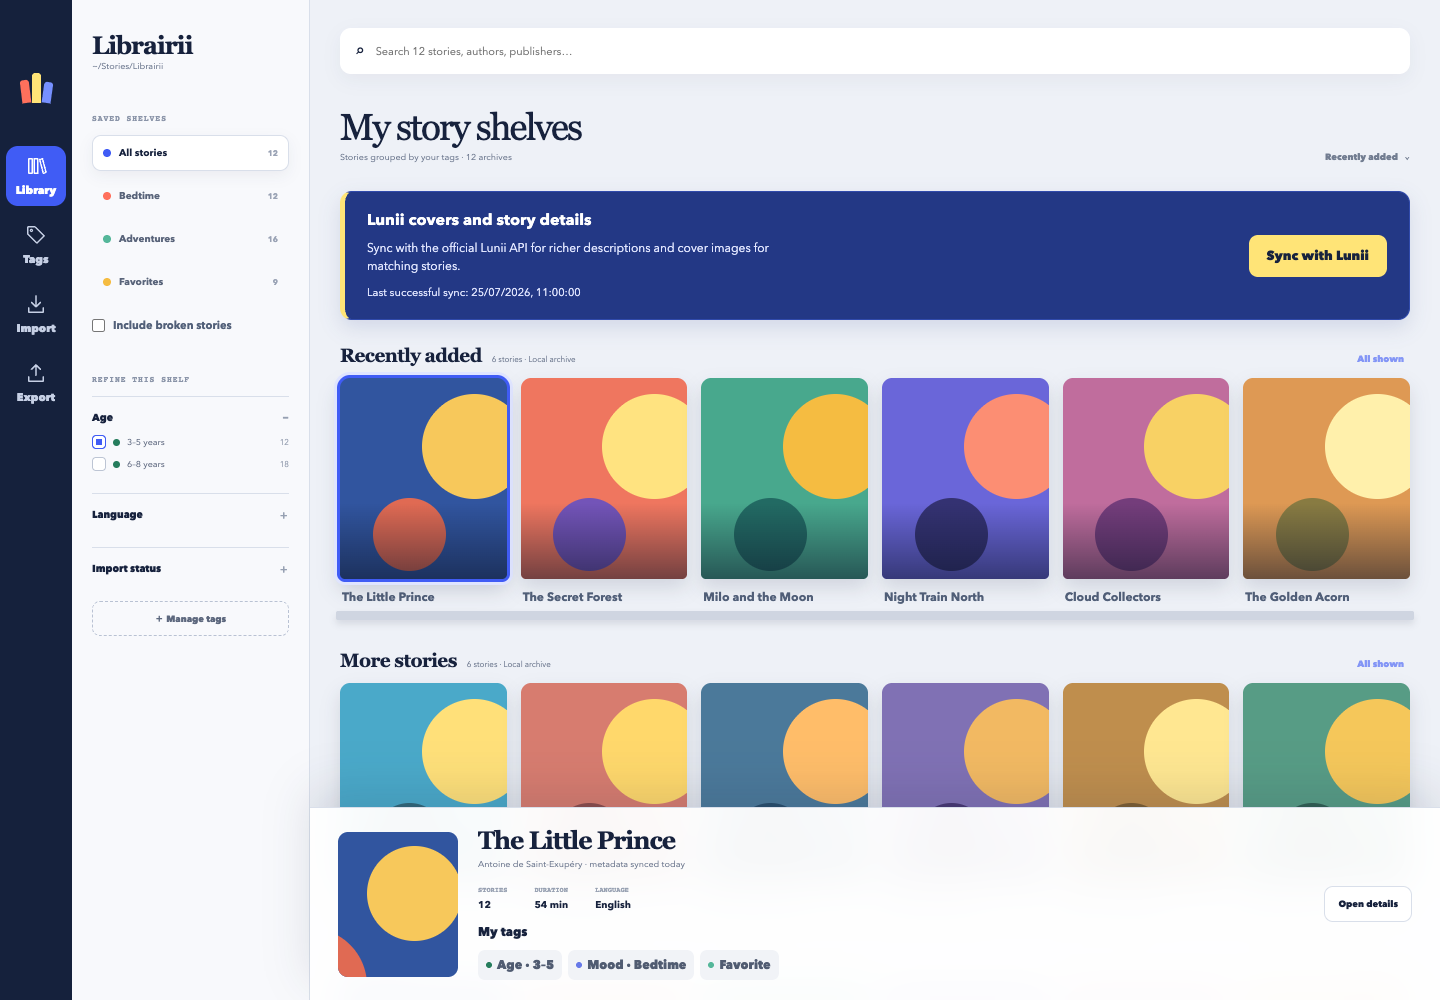
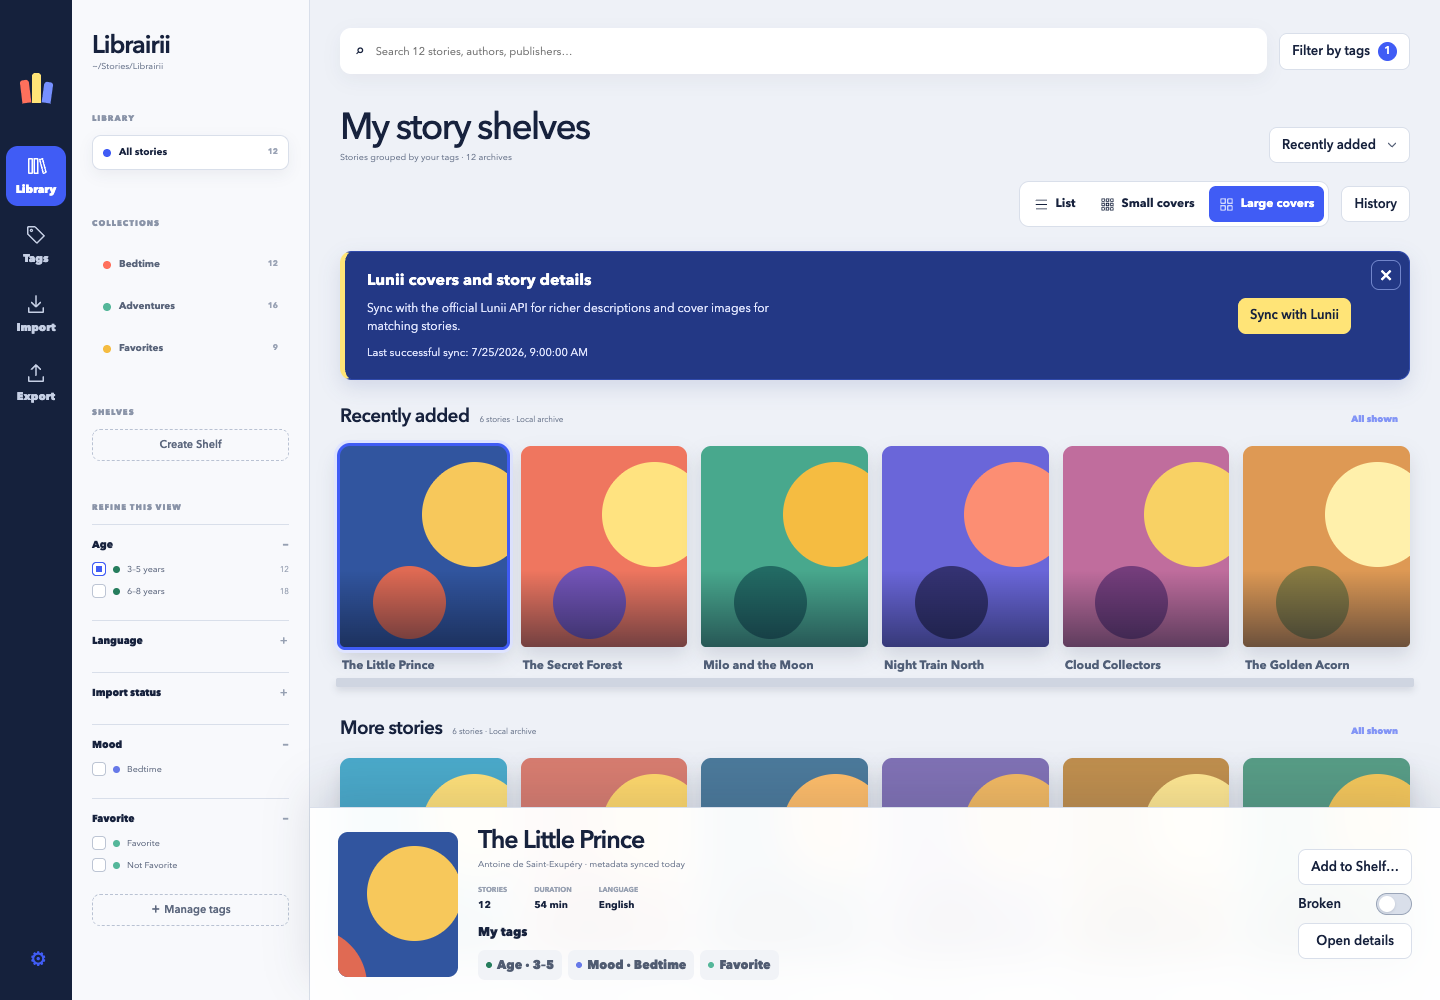
chore: Update docs and README

diff --git a/README.md b/README.md
@@ -4,6 +4,10 @@
 
 <h1 align="center">Librairii</h1>
 
+> [!IMPORTANT]
+> While I'm a professional software engineer, this project is an experiment in
+> vibe coding with 6.1 Sol and should be taken as such.
+
 <p align="center">
   <strong>Your stories, beautifully shelved.</strong><br>
   A local-first desktop library for your Lunii story archives.
@@ -23,11 +27,11 @@
 </p>
 
 Bring your story collection together in one place. Inspect archives, find the
-right story, and organize favorites into shelves that update as your library
-grows. When you're ready, export your stories for use with Lunii.QT.
+right story, save dynamic Collections, and curate Shelves whose contents you
+approve. When you're ready, export your stories for use with Lunii.QT.
 
 <p align="center">
-  <a href="docs/assets/library.png"><img src="docs/assets/library.png" width="1000" alt="Librairii library with colorful story covers, saved shelves, age filters, and the selected story's details"></a>
+  <a href="docs/assets/library.png"><img src="docs/assets/library.png" width="1000" alt="Librairii library with colorful story covers, separate Collections and Shelves sections, age filters, and selected-story details"></a>
   <br>
   <sub>The Librairii interface with demo stories and generated placeholder covers. Click to enlarge.</sub>
 </p>
@@ -39,12 +43,28 @@ grows. When you're ready, export your stories for use with Lunii.QT.
 | **Browse your collection** | Explore story covers and open details for descriptions, tags, and archive information. |
 | **Find the right story** | Search titles without worrying about accents or capitalization. Refine by age, language, compatibility, and tags. |
 | **Make it your own** | Create boolean or choice tags, assign them to stories, and choose their colors. |
-| **Save a shelf** | Turn a search and its filters into a dynamic shelf for bedtime, adventures, or family favorites. Membership updates with your library. |
+| **Save a Collection** | Keep a search and its filters as a dynamic Collection. Matches update as your library changes. |
+| **Curate a Shelf** | Choose which stories belong. Link Collections for suggestions, then explicitly approve additions and removals in **Review updates**. |
 | **Bring stories to life** | Choose **Sync with Lunii** to fetch official descriptions and cover images for matching stories. |
-| **Export what you need** | Copy the current view, a saved shelf, several shelves, or a selection of multiple stories. Overlapping shelves export each story once. |
+| **Export what you need** | Copy the current view, Collections, approved Shelf members, or selected stories. Unions deduplicate stories; Broken and unavailable stories are skipped with a reason. |
+| **Choose your setup** | Switch the interface between English and French, choose your library folder, and move the complete library from Settings. |
 
 <details>
-<summary><strong>Take a closer look: story details and tag management</strong></summary>
+<summary><strong>Take a closer look: curated Shelves, story details, tags, and settings</strong></summary>
+
+### Shelves you control
+
+Collections find stories automatically; Shelves keep the stories you approve.
+Review linked Collection suggestions when you choose. Every decision starts at
+**Not now**, and pending suggestions stay out of exports.
+
+<p align="center">
+  <img src="docs/assets/curated-shelf.png" width="1000" alt="A curated Shelf in List view showing approved, Broken, and unavailable members with separate export actions">
+</p>
+
+<p align="center">
+  <img src="docs/assets/shelf-review.png" width="520" alt="Shelf source-mismatch review with Not now selected and zero approved changes">
+</p>
 
 ### Everything about a story, in one place
 
@@ -58,14 +78,26 @@ need the UUID, archive filename, verification status, or checksum.
 ### A library organized your way
 
 Define reusable tags and colors. Derived tags keep their protected names and
-values while letting you choose their colors. Flag troublesome stories directly
-from a list or cover, and undo flag changes without opening the tag editor.
+values while letting you choose their colors. Use the **Broken** switch in the
+selected-story panel or details to flag troublesome stories, with bulk actions
+and Undo. Flagged stories stay visible and are skipped by every export.
 
 <p align="center">
   <img src="docs/assets/tag-manager.png" width="850" alt="Tag manager with controls for creating a tag and changing the derived Age tag's color">
 </p>
 
-These screenshots use the frontend's deterministic `?fixture=parity` demo data.
+### A local library that moves with you
+
+Choose English or French and manage the complete library location in Settings.
+Moving copies and verifies the library before switching to the new folder.
+
+<p align="center">
+  <img src="docs/assets/settings.png" width="720" alt="Settings showing interface language and the stories library location with a Change location action">
+</p>
+
+These screenshots use deterministic frontend demo data, including generated
+placeholder covers. See the [screenshot capture instructions](docs/assets/README.md)
+to refresh them from the current application.
 
 </details>
 
@@ -81,14 +113,18 @@ artifact details, and platform verification.
 
 ### Your first shelf
 
-1. **Import stories.** Choose your local archives. Librairii inspects each file
+1. **Choose your library folder.** Confirm the proposed location on first launch,
+   or choose another empty folder. Settings lets you change it later.
+2. **Import stories.** Choose your local archives. Librairii inspects each file
    and adds a managed copy to your library.
-2. **Explore and organize.** Search, filter, and tag your stories. Optionally
+3. **Explore and organize.** Search, filter, and tag your stories. Optionally
    sync with Lunii for official covers and descriptions.
-3. **Save a shelf.** Keep a useful search and its filters so matching stories
-   appear there automatically.
-4. **Export when ready.** Choose the current view or a shelf, then a destination
-   folder. Import the exported archives through Lunii.QT's supported workflow.
+4. **Save a Collection or create a Shelf.** Collections keep a useful query;
+   Shelves keep approved stories. Use **Add to Shelf…** for selected stories,
+   or **Create Shelf** to preview initial membership.
+5. **Export when ready.** Choose the current view, a Collection, or a Shelf,
+   then a destination folder. Review any skipped stories and import the exported
+   archives through Lunii.QT's supported workflow.
 
 **Accepted file extensions:** `.plain.pk`, `.v1.pk`, `.v2.pk`, `.pk`, `.zip`, `.7z`.
 Librairii inspects archive contents; a supported extension alone does not make a
@@ -172,6 +208,7 @@ For a verified portable archive, follow the host setup in
 | `make build` | Build the desktop application with the pinned Wails CLI. |
 | `make smoke-first-story` | Exercise import, inspection, and removal with a synthetic, copyright-free archive. |
 | `make smoke-foundation` | Check a clean-environment macOS launch, SQLite reopen, and shutdown. |
+| `npm --prefix frontend run docs:screenshots` | Refresh documentation images from isolated frontend fixtures using Chrome or Chromium. |
 
 The [first-story walkthrough](docs/demos/first-story-vertical-slice.md) also
 shows how to try the synthetic archive in the packaged app with an isolated
@@ -209,6 +246,9 @@ requirements and evidence contract.
 | A safe demo without a device or Lunii account | [First-story walkthrough](docs/demos/first-story-vertical-slice.md) |
 | Packaging and platform qualification | [Release platform matrix](docs/release-platforms.md) |
 | The application architecture | [Wails rebuild baseline](docs/architecture/0001-wails-rebuild-baseline.md) |
+| Collections, curated membership, and reviewed updates | [Collections and Shelves](docs/architecture/0004-collections-and-shelves.md) · [Verification](docs/verification/collections-and-shelves.md) |
+| Language settings and moving a library | [Settings and library location](docs/user-guide.md#settings-interface-language-and-library-location) · [Architecture](docs/architecture/0003-settings-and-library-location.md) |
+| Refreshing documentation screenshots | [Capture instructions](docs/assets/README.md) |
 | Large-library performance and budgets | [Performance guide](docs/performance/large-library.md) |
 | The Lunii catalog integration boundary | [Interoperability decision](docs/architecture/0002-lunii-catalog-interoperability.md) |
 

diff --git a/docs/architecture/0001-wails-rebuild-baseline.md b/docs/architecture/0001-wails-rebuild-baseline.md
@@ -8,11 +8,14 @@ Baseline commit: `9ed05ebb0672b9002e837312424c3d2bb12e0e86`
 
 Product behavior is documented in the [user guide](../user-guide.md) and
 verified by application and release acceptance tests.
+The revision notes below record implementation history. The current Collection,
+Shelf, Broken-flag, and export policies are defined in
+[Collections and curated Shelves](0004-collections-and-shelves.md).
 
 The UI baseline is tracked in the repository:
 
 - reference: `testdata/ui-prototypes/05-archive-shelves.html`
[2 lines of base64/hex data omitted]
 - the `.app` subtree is normative
 - the `.back` gallery link is excluded from the product
 
@@ -47,7 +50,7 @@ updates and changes the previous default age color to green.
 The 2026-10-19 browsing revision adds a persisted presentation preference for
 text lists, compact cover grids, and the existing large cover grid. Presentation
 does not enter saved queries or change selection, pagination, sorting, or exports.
-At widths of 850px or less, a Shelves & filters disclosure opens the existing
+At widths of 850px or less, a Library & filters disclosure opens the existing
 sidebar as a scrollable modal panel with keyboard dismissal and focus return.
 The previous breakpoint hid the sidebar without providing a reopening action.
 Nested dialogs suspend the sidebar focus trap while retaining its original
@@ -103,7 +106,7 @@ No removal command may target the repository root, the user home directory, or
 an application-data directory. Legacy external data is never interpreted,
 overwritten, or deleted by the rebuild.
 
-## Dedicated broken-story flag revision (2026-10-19)
+## Dedicated broken-story flag revision (2026-10-19, historical policies)
 
 Migration 015 moves the retired built-in Broken assignments into
 `stories.is_broken`, removes its definition and protection triggers, and records
@@ -121,5 +124,24 @@ visibility (hide/include/only) from explicit per-node flag membership. Older
 payloads translate retired tag IDs before live reference validation; AND/OR
 composition and even contradictory empty results are retained. Only old versions
 interpret the compatibility identity, so a new tag can safely reuse its ID.
-Current-query/shelf exports follow visibility, explicit selections still allow
-flagged stories, and prepared scopes remain snapshots.
+At that stage, current-query/shelf exports followed visibility and explicit
+selections still allowed flagged stories. These policies were superseded by
+the Collections and curated Shelves revision below.
+
+## Collections and curated Shelves revision (2026-10-19)
+
+Migrations 016–018 distinguish dynamic saved Collections from approved,
+UUID-based Shelf membership. Collection sources produce review proposals;
+membership changes require explicit approval. Missing stories retain their
+Shelf identity and reconnect when their UUID returns.
+
+Broken stories always remain visible and counted. The panel/details switch
+and bulk actions update the independent flag with guarded Undo; story cards
+show warnings. Every export skips Broken and unavailable members with a reason,
+revalidates prepared eligibility, and checks queued stories before copying.
+Supported legacy queries lose built-in Broken restrictions recursively.
+
+Saved query version 5 and URL version 3 describe the current codecs. The
+canonical snapshot includes separate Collections/Shelves navigation and no
+Broken visibility selector. Documentation screenshots are captured from the
+current frontend with [the fixture capture script](../assets/README.md).

diff --git a/docs/user-guide.md b/docs/user-guide.md
@@ -2,7 +2,13 @@
 
 Librairii keeps a private, local library of story archives. Importing creates a
 managed copy; it never edits, renames, moves, or deletes the source file you
-selected. This guide describes the behavior of release `0.1.x`.
+selected. This guide describes the current `main` implementation, whose version
+is recorded in [`VERSION`](../VERSION) (currently `0.4.0`).
+
+![Library with Collections, Shelves, filters, and selected-story details](assets/library.png)
+
+Screenshots use synthetic frontend fixtures and generated placeholder artwork.
+See [how to refresh them](assets/README.md).
 
 ## Supported imports
 
@@ -170,6 +176,11 @@ notices hidden. Use Close, Escape, or click outside to return to the collection.
 
 ## Search, Collections, and Shelves
 
+| Organize with… | Membership | Export contents |
+| --- | --- | --- |
+| **Collection** | Current matches for a saved search and filters | Current matches, with ineligible stories skipped |
+| **Shelf** | Stories you explicitly approve | Approved members, with ineligible stories skipped; pending suggestions are excluded |
+
 Name search is a literal, case-insensitive, accent-insensitive substring match
 against the displayed title. `%` and `_` have no wildcard meaning. Name,
 language, archive compatibility, boolean tags, choice tags, and supported
@@ -210,6 +221,8 @@ stay on the Shelf until you explicitly remove them and clear any prior exclusion
 for that UUID. There is no protection setting: every approved story remains in
 place until you approve its removal.
 
+![Curated Shelf in List view with approved, Broken, and unavailable members](assets/curated-shelf.png)
+
 Shelf search, sidebar refinements, and sorting change the view only. They never
 replace approved membership or create source rules. Manual-order arrow buttons
 explicitly reorder members; Rename, Duplicate, and Delete operate on that Shelf.
@@ -225,6 +238,8 @@ persistent exclusion, **Keep** retains a story as a manual choice, and
 Bulk actions are explicit too. Review the final action totals before applying.
 Deferring or cancelling changes nothing. Expired or stale reviews require a
 fresh preview and renewed decisions.
+
+![Shelf source-mismatch review with its decision deferred and no approved changes](assets/shelf-review.png)
 
 Current matching sources explain additions; **Added from** records historical
 acceptance, including detached sources. Manually added or explicitly kept stories
@@ -374,6 +389,8 @@ Open **Librairii → Settings…** (or **⌘,**) on macOS. On Linux use the
 application menu or the gear button in the app. The settings panel is also
 available when the library needs recovery.
 
+![Settings with interface language and library location controls](assets/settings.png)
+
 Choose **Français** or **English** for the interface. Your explicit choice is
 remembered and applies immediately. On first launch, French is selected for a
 French system language; other system languages default to English. This setting
@@ -390,7 +407,7 @@ place automatically.
 To move the library, choose **Change location…**, select an empty folder, review
 the destination and total size, and choose **Move library**. Wait for imports,
 exports, and syncs to finish before starting a move. The move includes the
-database, story archives, tags, shelves, history, covers, catalog snapshots,
+database, story archives, tags, Collections, Shelves, history, covers, catalog snapshots,
 staging, trash, diagnostic logs, and database recovery files. Original source
 archives and previously exported files outside the library remain in place.
 Another library or a nonempty destination cannot be merged or overwritten.

diff --git a/docs/release-platforms.md b/docs/release-platforms.md
@@ -1,6 +1,7 @@
 # Release platform matrix
 
-Status date: 2026-07-27
+Workflow reviewed: 2026-10-20. Platform evidence below is recorded separately
+from this documentation review; it is not a new qualification run.
 
 Librairii supports macOS and Linux desktop distributions.
 
@@ -23,7 +24,7 @@ destination, and reveal evidence before domain work may continue.
 
 | Distribution target | Verification host | Artifact | Command | Status |
 | --- | --- | --- | --- | --- |
-| macOS 15, arm64 | macOS 15.7.7 arm64 | versioned DMG | `make verify-packaged-acceptance` | Passed on the current host |
+| macOS 15, arm64 | macOS 15.7.7 arm64 | versioned DMG | `make verify-packaged-acceptance` | Previously passed locally; rerun for each release |
 | Linux x64 with WebKitGTK 4.1 | GitHub-hosted Ubuntu 24.04 x64 under Xvfb | versioned portable `tar.gz` | `make verify-platform-linux` | Host-native CI gate |
 
 The macOS artifact is a signed application bundle in a DMG with an
@@ -53,7 +54,9 @@ artifacts:
    and validate their installed payload.
 5. Launch the installed or packaged executable and require a committed React
    render, a clean lifecycle, and no external sidecar.
-6. Reopen the same SQLite database and require the smoke story and shelves.
+6. Reopen the same SQLite database and require the smoke story and saved
+   Collections (`foundation-smoke` retains the legacy `-expect-shelves` option
+   name for this count).
 7. Run native multi-file, directory, and reveal-adapter acceptance.
 8. Run the complete headless composition and root release contracts.
 9. Remove temporary installed application files without deleting user-owned
@@ -67,3 +70,12 @@ The qualification implementation is:
 - CI orchestration: `.github/workflows/platform-release.yml`.
 
 Failed or cancelled jobs publish no artifact.
+
+## Settings and library relocation
+
+Both packaged verification scripts also run `scripts/verify-settings-acceptance`
+against their platform's application. This covers first-run confirmation,
+English/French Settings menus and accelerators, native folder selection,
+library relocation, and export after a move. macOS evidence and the Linux
+host limitation are recorded in
+[Settings and library location verification](verification/settings-and-library-location.md).

diff --git a/docs/assets/README.md b/docs/assets/README.md
@@ -1,0 +1,35 @@
+# Documentation screenshots
+
+These images show the current React application with synthetic frontend bridge
+fixtures, generated placeholder covers, and no personal library data. They are
+browser captures of the application, not native window or device screenshots.
+
+From the repository root, after `make setup`, run:
+
+```sh
+npm --prefix frontend run docs:screenshots
+```
+
+Chrome or Chromium must be installed. Set `LIBRAIRII_CHROME_PATH` to its
+executable if it is not in a standard platform location. The script builds into
+a temporary directory with fixtures enabled, serves on a temporary loopback
+port, and removes the build when finished. Normal production builds exclude
+fixtures. It does not open the desktop app or read its SQLite library.
+
+| Image | Fixture and state |
+| --- | --- |
+| `library.png` | `?fixture=parity`, Collections, Shelves, filters, selected story |
+| `story-details.png` | `?fixture=parity`, Open details dialog |
+| `tag-manager.png` | `?fixture=parity`, Manage tags dialog |
+| `curated-shelf.png` | `?fixture=curated`, Weekend Shelf in List view with Broken and unavailable members |
+| `shelf-review.png` | `?fixture=curated&review=removals`, automatic source-mismatch review with its decision deferred |
+| `settings.png` | `?fixture=settings`, language and library location |
+
+Capture settings: 1440 × 1000 viewport (1181 × 800 for the Shelf and review),
+scale 1, English (`en-GB`), UTC,
+reduced motion, and the frozen fixture clock (`2026-07-25T09:00:00Z`). Dialog
+images are cropped to the dialog. Text and timestamps belong to fixtures, not a
+live catalog sync. Fonts and browser versions can cause small platform differences.
+
+Last refreshed: 2026-10-20. After regenerating, visually inspect every image and
+check the README and user guide captions against the captured controls.

diff --git a/docs/demos/first-story-vertical-slice.md b/docs/demos/first-story-vertical-slice.md
@@ -31,12 +31,16 @@ and verifies that the selected source bytes remain unchanged.
 3. Choose **Import stories** and select
    `internal/inspection/testfixture/testdata/generic.7z`.
 4. Observe the nonblocking import state and the new selected cover on the
-   collection shelf.
-5. Choose **Open details** to inspect its UUID, detected format, verification,
-   filename, and checksum.
-6. Choose **Cancel** and verify the story remains.
-7. Open details again, choose **Move to trash**, and verify the collection
-   returns to its empty state.
+   Library view.
+5. Choose **Open details**, then **Show technical details** to inspect its UUID,
+   detected format, verification, filename, and checksum.
+6. Choose **Remove from library…**, then **Keep story** and verify it remains.
+7. Choose **Remove from library…** again, confirm **Move to trash**, and verify
+   the Library returns to its empty state.
+
+The isolated root bypasses first-run setup and leaves your normal library and
+Settings profile untouched. For the current Collection/Shelf workflows, see
+the [user guide](../user-guide.md#search-collections-and-shelves).
 
 The checked-in `generic.7z` fixture is deterministic and synthetic. Import and
 removal never modify it; Librairii operates on its managed copy, and confirmed

diff --git a/docs/verification/story-broken-flag.md b/docs/verification/story-broken-flag.md
@@ -9,10 +9,11 @@
 
 Change: `promote-broken-to-story-flag` (27 implementation subtasks).
 
-The product now stores Broken on the story and offers direct list/cover flag
-actions, separate panel/details warnings, bulk setting/clearing, and guarded
-Undo. Hidden-by-default visibility, Include broken stories, and Broken only
-apply before counts and pagination. Export scope behavior is preserved.
+The original implementation stored Broken on the story and offered direct
+list/cover flag actions, separate panel/details warnings, bulk setting/clearing,
+and guarded Undo. At that stage, hidden-by-default visibility, Include broken
+stories, and Broken only applied before counts and pagination; export scope
+behavior was preserved. These visibility and export policies are historical.
 
 ## Automated behavior coverage
 
